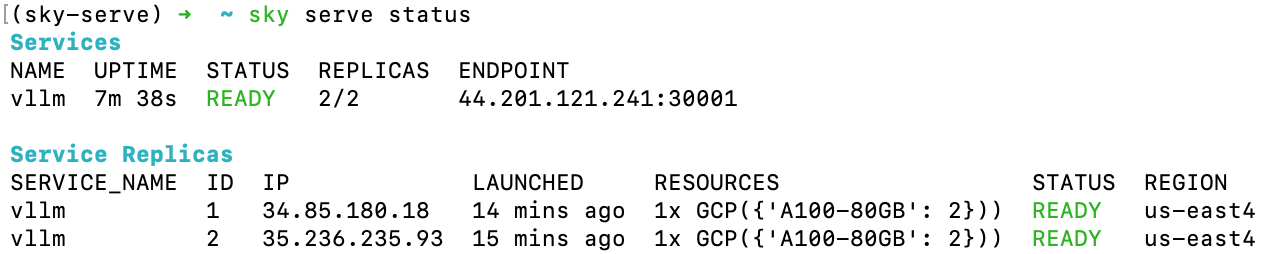
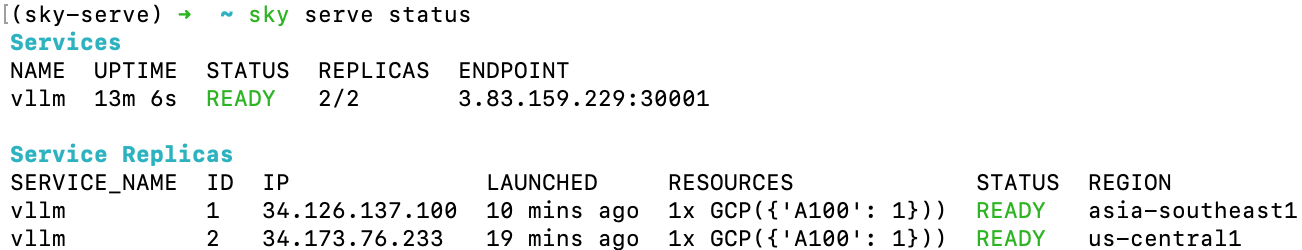
upd pic & minor

diff --git a/docs/source/serving/sky-serve.rst b/docs/source/serving/sky-serve.rst
@@ -95,7 +95,7 @@ Here is a simple example of serving an LLM model (:code:`lmsys/vicuna-13b-v1.5`)
                 ghcr.io/huggingface/text-generation-inference \
                 --model-id lmsys/vicuna-13b-v1.5
 
-Running :code:`sky serve up service.yaml` will deploy the service to the cloud with the best price/performance ratio. Use :code:`sky serve status` to check the status of the service:
+Running :code:`sky serve up service.yaml` will deploy the service to the cloud with the best price/performance ratio. Once it is deployed, use :code:`sky serve status` to check the status of the service:
 
 .. tab-set::
 
@@ -135,7 +135,7 @@ Simply ``curl -L`` the service endpoint, which automatically load-balances acros
 
         .. code-block:: console
 
-            $ curl -L 44.201.121.241:30001/v1/chat/completions \
+            $ curl -L 3.83.159.229:30001/v1/chat/completions \
                 -X POST \
                 -d '{"model": "mistralai/Mixtral-8x7B-Instruct-v0.1", "messages": [{"role": "user", "content": "Who are you?"}]}' \
                 -H 'Content-Type: application/json'
